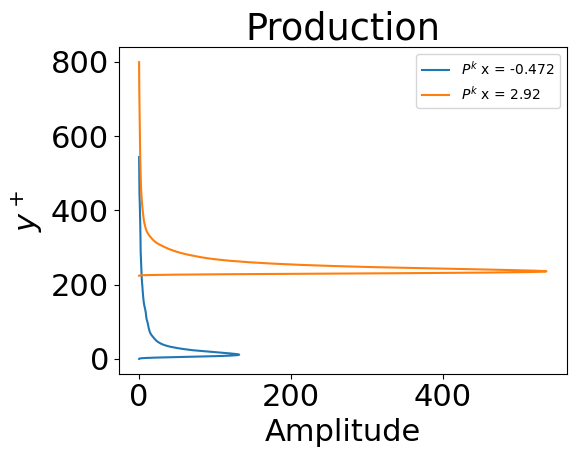
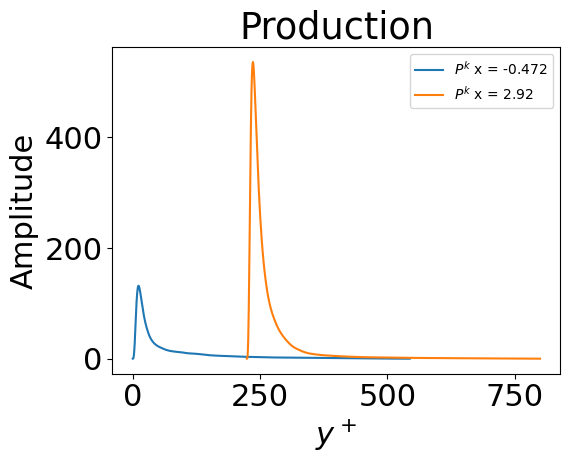
Change plot x,y

Changed region(s): [[0.0, 0.0, 1.0, 0.8884], [0.4474, 0.8884, 0.7456, 0.9803], [0.4772, 0.674, 0.507, 0.7352]]

diff --git a/Contraction/plot.py b/Contraction/plot.py
@@ -325,24 +325,24 @@ plt.savefig('termsV_1-2_large_terms.png',bbox_inches = 'tight')
 
 fig59,ax1 = plt.subplots()
 plt.subplots_adjust(left=0.20,bottom=0.20)
-plt.plot(-uv2d[grid_line_1,:]*dudy[grid_line_1,:],yplus2d[grid_line_1,:],label = "$P^k$" + f" x = {np.round(x2d[grid_line_1,2],3)}")
-plt.plot(-uv2d[grid_line_2,:]*dudy[grid_line_2,:],yplus2d[grid_line_2,:],label = "$P^k$" + f" x = {np.round(x2d[grid_line_2,2],3)}")
+plt.plot(yplus2d[grid_line_1,:],-uv2d[grid_line_1,:]*dudy[grid_line_1,:],label = "$P^k$" + f" x = {np.round(x2d[grid_line_1,2],3)}")
+plt.plot(yplus2d[grid_line_2,:],-uv2d[grid_line_2,:]*dudy[grid_line_2,:],label = "$P^k$" + f" x = {np.round(x2d[grid_line_2,2],3)}")
 plt.legend(fontsize = "10")
-plt.ylabel("$y^+$")
-plt.xlabel("Amplitude")
+plt.xlabel("$y^+$")
+plt.ylabel("Amplitude")
 plt.title("Production")
 plt.savefig('prod.png',bbox_inches = 'tight')
 
 #Plot Production term and dissipation
 fig59,ax1 = plt.subplots()
 plt.subplots_adjust(left=0.20,bottom=0.20)
-plt.plot(-uv2d[grid_line_1,:]*dudy[grid_line_1,:],yplus2d[grid_line_1,:],label = "$P^k$" + f" x = {np.round(x2d[grid_line_1,2],3)}")
-plt.plot(diss2d[grid_line_1,:],yplus2d[grid_line_1,:],label = "$\\varepsilon$" + f" x = {np.round(x2d[grid_line_1,2],3)}")
+plt.plot(yplus2d[grid_line_1,:],-uv2d[grid_line_1,:]*dudy[grid_line_1,:],label = "$P^k$" + f" x = {np.round(x2d[grid_line_1,2],3)}")
+plt.plot(yplus2d[grid_line_1,:],diss2d[grid_line_1,:],label = "$\\varepsilon$" + f" x = {np.round(x2d[grid_line_1,2],3)}")
 
-plt.plot(-uv2d[grid_line_2,:]*dudy[grid_line_2,:],yplus2d[grid_line_2,:],label = "$P^k" + f" x = {np.round(x2d[grid_line_2,2],3)}$")
-plt.plot(diss2d[grid_line_2,:],yplus2d[grid_line_2,:],label = "$\\varepsilon$" + f" x = {np.round(x2d[grid_line_2,2],3)}")
+plt.plot(yplus2d[grid_line_2,:],-uv2d[grid_line_2,:]*dudy[grid_line_2,:],label = "$P^k" + f" x = {np.round(x2d[grid_line_2,2],3)}$")
+plt.plot(yplus2d[grid_line_2,:],diss2d[grid_line_2,:],label = "$\\varepsilon$" + f" x = {np.round(x2d[grid_line_2,2],3)}")
 plt.legend(fontsize = "10")
-plt.ylabel("$y^+$")
-plt.xlabel("Amplitude")
+plt.xlabel("$y^+$")
+plt.ylabel("Amplitude")
 plt.title("Production")
 plt.savefig('prod_diss.png',bbox_inches = 'tight')
